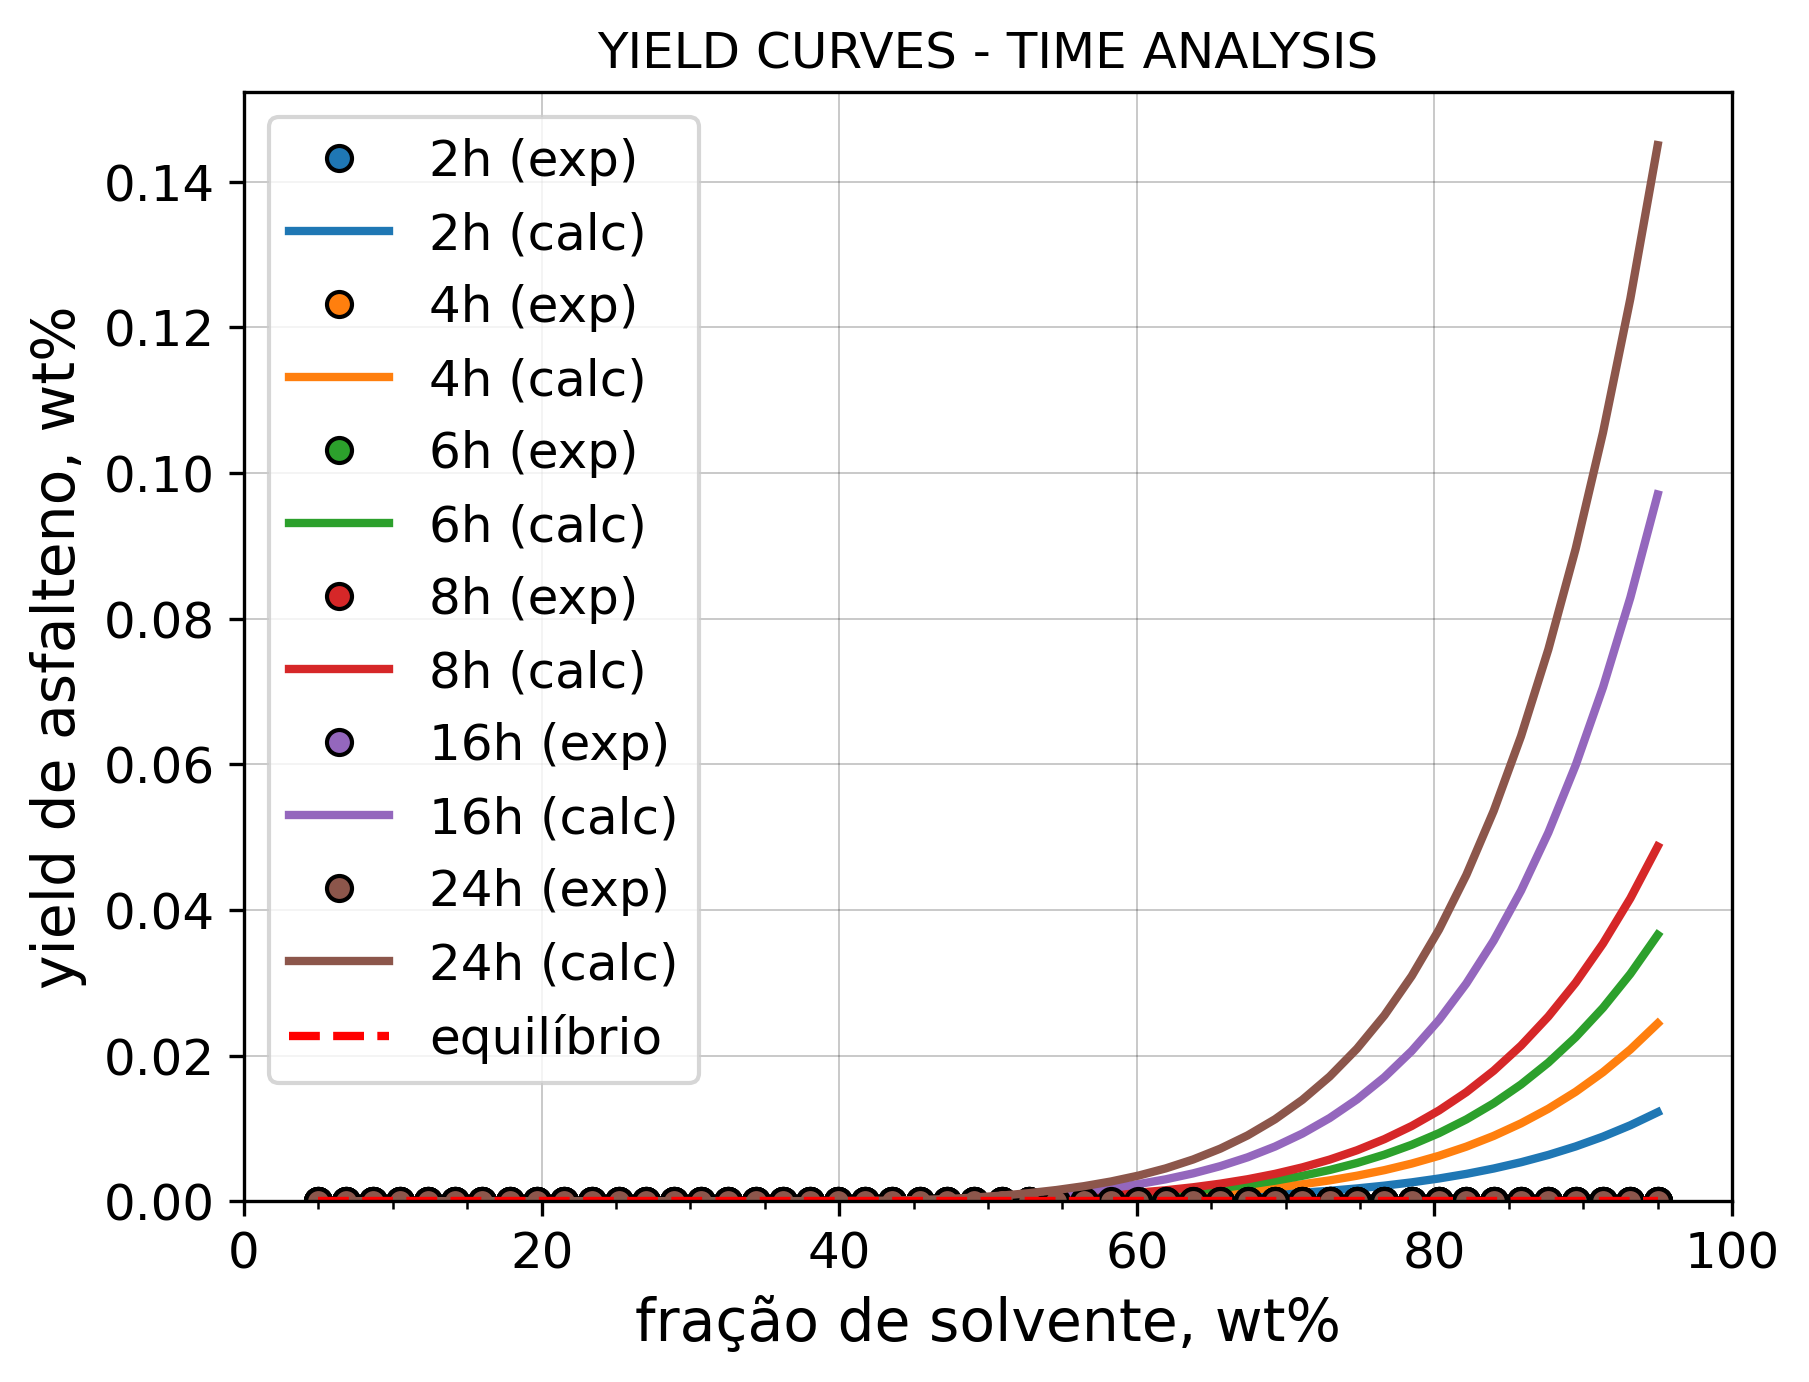
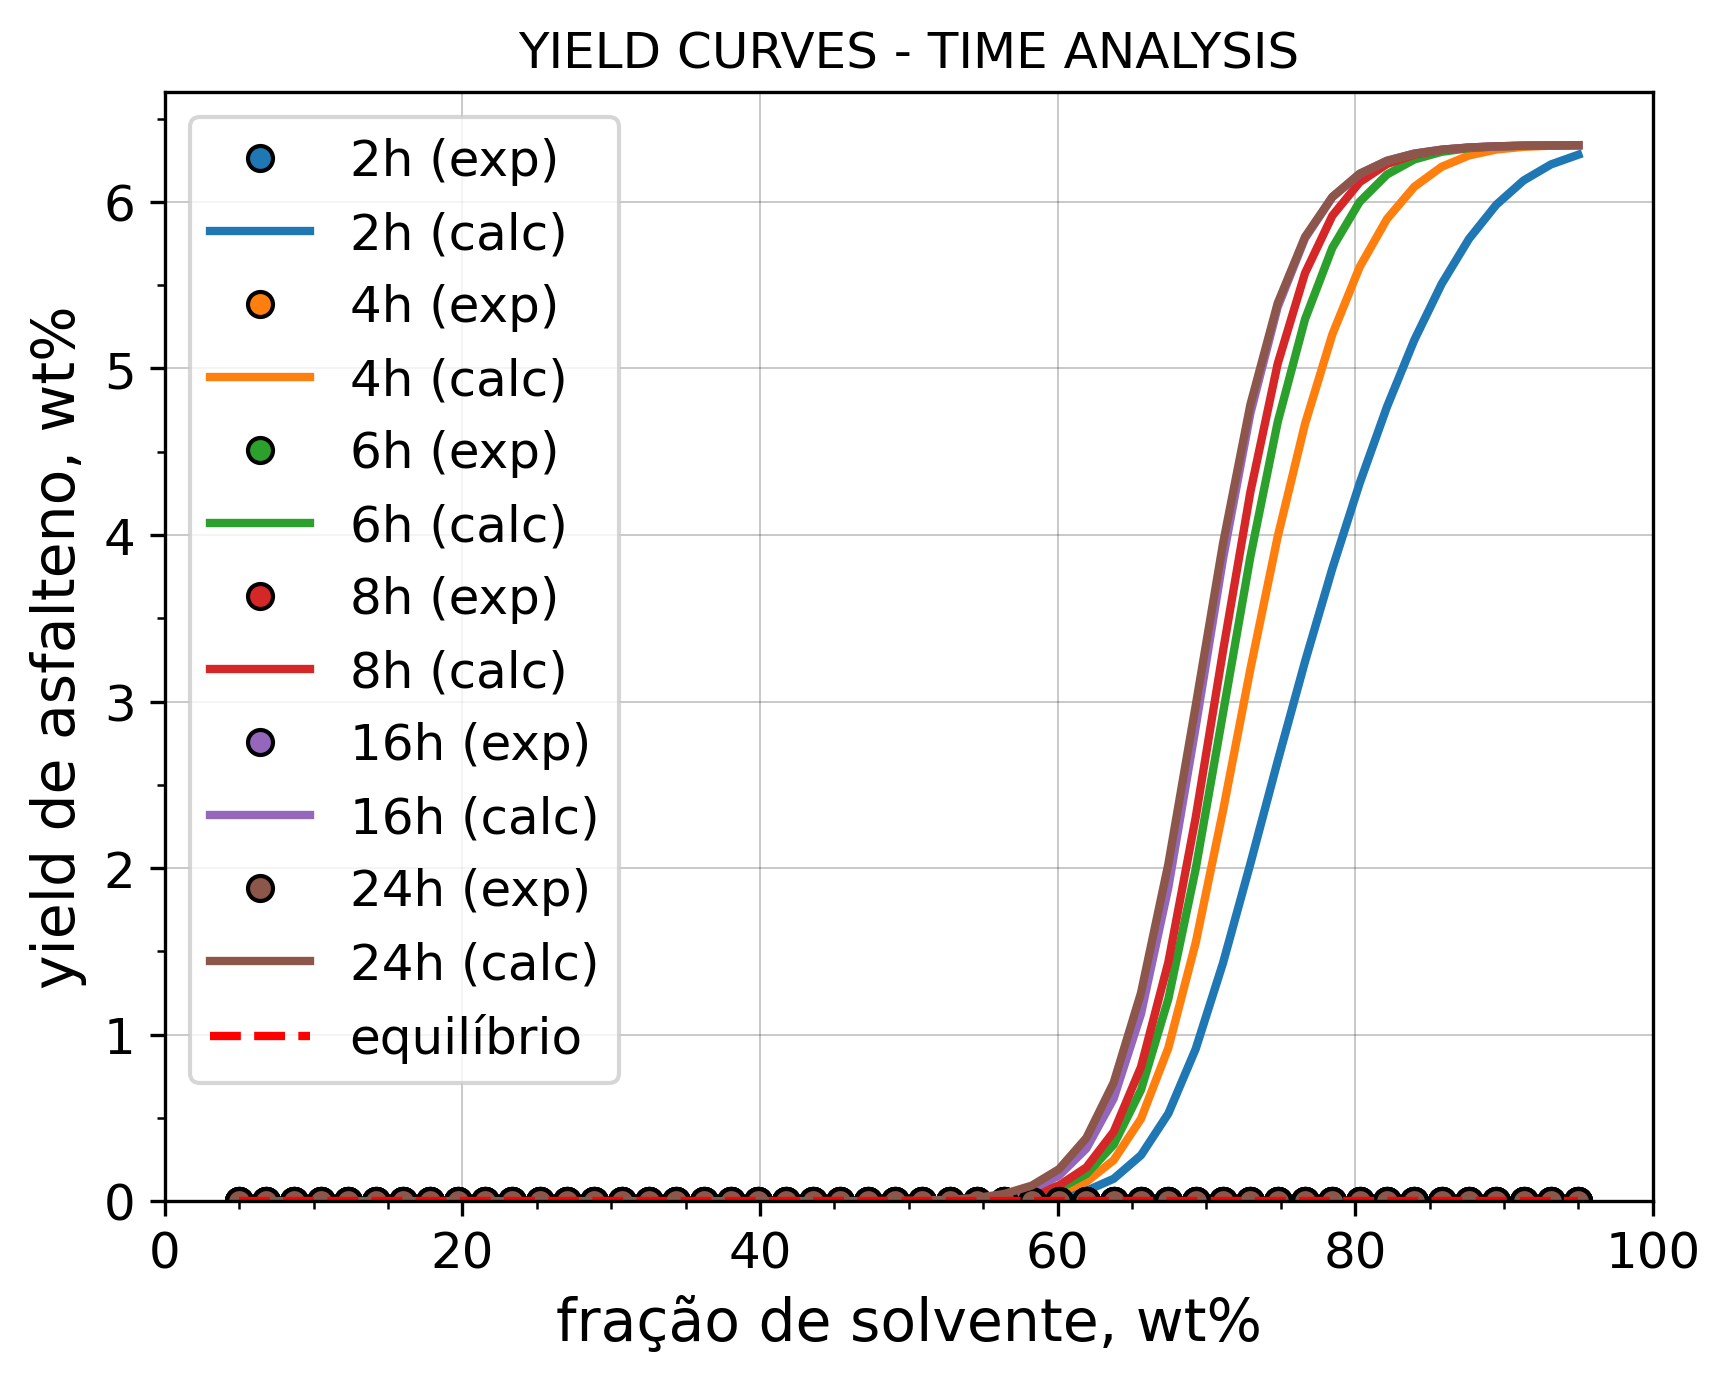
Criação do módulo colormap

diff --git a/módulo_colormap.py b/módulo_colormap.py
@@ -1,0 +1,159 @@
+# ====================================================================================================================== #
+# Módulo: Colormap de Erro para Parâmetros alfa e MW_avg
+
+# Importação das bibliotecas
+import os
+import numpy as np
+import matplotlib.pyplot as plt
+import copy
+import sys
+
+# Importação dos módulos
+from módulo_configurações import Configurações
+from módulo_parâmetros import Parâmetros
+from módulo_propriedades import Propriedades
+from módulo_composições import FasesSistema
+from módulo_ELL import FlashELL, ModeloTermodinâmico
+from módulo_leitura_dados import ler_dados_experimentais, ler_lista_datasets
+
+# ==================================================================================================================== #
+# PARTE 1: LEITURA DE DADOS E CONFIGURAÇÕES
+# ==================================================================================================================== #
+
+# Ler a lista de datasets
+diretorio = os.path.dirname(__file__)
+database = ler_lista_datasets(diretorio)
+
+# Escolha do dataset
+nome_planilha = 'Yanes_P3'  
+if nome_planilha not in database:
+    print(f"Dataset '{nome_planilha}' não encontrado na base de dados.")
+    sys.exit()
+
+# Leitura dos dados experimentais
+diretorio_do_xlsx = os.path.join(diretorio, 'Dados de Entrada', 'database_yield_curves.xlsx')
+SARA, T, precipitante, ws_exp, yields_exp, n_dados_exp = ler_dados_experimentais(diretorio_do_xlsx, nome_planilha)
+
+# Configurações e parâmetros base (valores padrão)
+config = Configurações()
+params = Parâmetros()
+
+# Alterando as configurações para usar a distribuição Gamma
+config.correlações.fracionamento_asfaltenos = 'Distribuição_Gamma'
+
+# Parâmetros regredidos (MW_molecula, x_Asf0, x_Asf1) = valores padrão. (alterável)
+params.equilíbrio.MW_molecula = 670.0
+params.equilíbrio.x_Asf0 = 0.3
+params.equilíbrio.x_Asf1 = 0.3
+
+# ==================================================================================================================== #
+# PARTE 2: CALCULANDO O ERRO
+# ==================================================================================================================== #
+
+def calcular_erro(alpha, MW_avg):
+    # Cria uma cópia dos parâmetros para não alterar o original
+    params_copy = copy.deepcopy(params)
+    params_copy.equilíbrio.alfa = alpha
+    params_copy.equilíbrio.MW_avg = MW_avg
+
+    # Calcula as propriedades termodinâmicas
+    propriedades = Propriedades.calcular(T, precipitante, params_copy.equilíbrio, config)
+
+    # Cria o sistema com as composições globais
+    sistema = FasesSistema.criar(ws_exp, SARA, n_dados_exp, propriedades)
+    modelo_termodinâmico = ModeloTermodinâmico.criar(config.cálculo.modelo_termodinâmico, propriedades)
+
+    # Arrays para armazenar as composições das fases
+    xs_L = np.zeros_like(sistema.fase_leve.xs)
+    xs_H = np.zeros_like(sistema.fase_pesada.xs)
+    betas = np.zeros(n_dados_exp)
+
+    # Calcula o flash para cada ponto experimental
+    for i in range(n_dados_exp):
+        equilíbrio = FlashELL(sistema.fase_global.xs[i], modelo_termodinâmico)
+        betas[i], xs_L[i, :], xs_H[i, :], _ = equilíbrio.calcular_flash()
+
+    sistema.betas = betas
+    sistema.fase_leve.definir_composições('molar', xs_L, propriedades)
+    sistema.fase_pesada.definir_composições('molar', xs_H, propriedades)
+
+    # Calcula os yields e o erro
+    yields_calc = sistema.yields_calc(propriedades.MMs)
+    erro = np.mean(np.abs(yields_exp - yields_calc)) # Pode ser modificado para outro tipo de erro.
+    return erro
+
+# ==================================================================================================================== #
+# PARTE 3: DEFINIÇÃO DA GRADE E CÁLCULO DOS ERROS
+# ==================================================================================================================== #
+
+# Limites dos parâmetros
+alpha_min, alpha_max = 0.1, 20.0
+MW_avg_min, MW_avg_max = 1800.0, 5000.0
+
+# Número de pontos
+n_alpha = 20
+n_MW = 20
+
+alpha_range = np.linspace(alpha_min, alpha_max, n_alpha)
+MW_avg_range = np.linspace(MW_avg_min, MW_avg_max, n_MW)
+
+# Matriz de erros
+errors = np.zeros((n_alpha, n_MW))
+
+print("Iniciando o cálculo de erros...")
+for i, alpha in enumerate(alpha_range):
+    for j, MW_avg in enumerate(MW_avg_range):
+        errors[i, j] = calcular_erro(alpha, MW_avg)
+        print(f"alfa = {alpha:.2f}, MW_avg = {MW_avg:.0f}  ->  erro = {errors[i, j]:.6f}")
+
+# Verifica se todos os erros são iguais
+if np.allclose(errors, errors[0,0]):
+    print("ATENÇÃO: Todos os erros são iguais.")
+
+# ==================================================================================================================== #
+# PARTE 4: PLOTAGEM DO COLORMAP
+# ==================================================================================================================== #
+
+plt.figure(figsize=(10, 8))
+plt.pcolormesh(alpha_range, MW_avg_range, errors.T, 
+               cmap='viridis', 
+               shading='auto')
+
+# Encontra a posição do menor erro na matriz
+i_min, j_min = np.unravel_index(np.argmin(errors), errors.shape)
+
+alpha_opt = alpha_range[i_min]
+MW_opt = MW_avg_range[j_min]
+erro_min = errors[i_min, j_min]
+
+# Adiciona o marcador no gráfico
+plt.scatter(alpha_opt, MW_opt, 
+            color='red', marker='*', s=250, 
+            edgecolor='white', linewidth=1.5,
+            label=f'Mínimo: α={alpha_opt:.2f}, MW={MW_opt:.0f}')
+
+# Adiciona uma legenda para o marcador
+plt.legend(loc='upper right', fontsize=10)
+cbar = plt.colorbar(label='Erro (Desvio Absoluto Médio)', pad=0.02)
+cbar.ax.tick_params(labelsize=12)
+
+plt.xlabel('Parâmetro alfa', fontsize=14)
+plt.ylabel('Massa molar média MW_avg (g/mol)', fontsize=14)
+plt.title(f'Mapa de erro para {nome_planilha}', fontsize=16)
+
+if not np.allclose(errors, errors[0,0]):
+    contour_levels = np.linspace(errors.min(), errors.max(), 10)
+    plt.contour(alpha_range, MW_avg_range, errors.T, levels=contour_levels, colors='white', linewidths=0.5)
+else:
+    print("Erros constantes, contornos não serão plotados.")
+
+plt.tight_layout()
+
+# Salvar a figura na pasta de resultados
+diretorio_saida = os.path.join(diretorio, 'Resultados', 'Mapas_Erro')
+os.makedirs(diretorio_saida, exist_ok=True)
+plt.savefig(os.path.join(diretorio_saida, f'{nome_planilha}_colormap_alpha_MWavg.png'), dpi=300)
+
+plt.show()
+
+print("O colormap foi gerado e salvo.")

diff --git a/módulo_cálculos_cinéticos.py b/módulo_cálculos_cinéticos.py
@@ -4,7 +4,7 @@ import scipy as scp
 from scipy.constants import R  # m3*Pa/mol*K
 from dataclasses import dataclass
 
-@dataclass #onset, yield_max, kc1, kc2, kt1, kt2
+@dataclass
 class parâmetros_precipitação:
 
     onset: float
@@ -56,6 +56,26 @@ class cálculos_físicos:
 def deposição_cumulativa_asfaltenos():
     pass
 
+# ********************************************************************************
+# FUNÇÕES WRAPPER PARA CÁLCULOS CINÉTICOS *************************************
+
+# Funções wrapper para compatibilidade com importações
+def calcular_yields_tempo_infinito(xs_precipitante, modelo):
+    return modelo.calcular_yields_tempo_infinito(xs_precipitante)
+
+def calcular_yields_temporais(tempos, xs_precipitante, yields_tempo_infinito, modelo):
+    return modelo.calcular_yields_temporais(tempos, xs_precipitante, yields_tempo_infinito)
+
+def obter_ponto_de_onset(xs_precipitante, yield_curve, tol=0.001, modelo=None):
+    if modelo:
+        return modelo.obter_ponto_de_onset(xs_precipitante, yield_curve, tol)
+    # Implementação padrão se não houver modelo
+    onset = 0
+    for i_onset in range(len(yield_curve)):
+        if yield_curve[i_onset] > tol:
+            onset = xs_precipitante[i_onset] if i_onset == 0 else xs_precipitante[i_onset - 1]
+            break
+    return onset
 # ******************************************************************************************************************** #
 #  ATENÇÃO: O CÓDIGO A SEGUIR SERÁ EXECUTADO APENAS QUANDO ESTE MÓDULO FOR RODADO COMO SCRIPT PRINCIPAL.               #
 #           O CÓDIGO A SEGUIR SERVE PARA CONFERIR SE AS FUNÇÕES DESTE MÓDULO FUNCIONAM CORRETAMENTE.                   #

diff --git a/MAIN.py b/MAIN.py
@@ -18,7 +18,7 @@ from módulo_ELL import FlashELL, ModeloTermodinâmico
 # from módulo_equilíbrio_multifásico import calcular_equilíbrio_multifásico
 from módulo_cálculos_cinéticos import calcular_yields_tempo_infinito, calcular_yields_temporais, obter_ponto_de_onset
 from módulo_resultados import exibir_resultados_equilíbrio, exibir_resultados_cinética, salvar_resultados_excel
-
+from módulo_colormap import plotar_colormap_alfa_MWavg
 
 # ==================================================================================================================== #
 def executar_modelagem_principal(nome_planilha, diretório):
@@ -98,6 +98,7 @@ def executar_modelagem_principal(nome_planilha, diretório):
         # 3.3 - Predição do Modelo Cinético
         yields_eq_calc = calcular_yields_tempo_infinito(ws_exp[:, 0], params.cinética)
         yields_temp_calc, taus = calcular_yields_temporais(tempos, ws_exp[:, 0], yields_eq_calc, params.cinética)
+        alfa = params.equilíbrio.alfa
 
         # 3.4 - Exibição dos Resultados de Yield Curves Cinéticas
         exibir_resultados_cinética(config, nome_planilha, tempos, ws_exp[:, 0], taus, params.cinética,

diff --git a/módulo_distribuição_massa_molar.py b/módulo_distribuição_massa_molar.py
@@ -27,6 +27,9 @@ def calcular_por_Distribuição_Gamma(alfa, MWavg, n_agregados, MWmin, MWmax, ti
            wsagregados (array)  : frações mássicas dos agregados de asfaltenos
            xsagregados (array)  : frações molares dos agregados de asfaltenos
     """
+    #prints debug ===================
+    #print(f"[DIST] alfa={alfa}, MW_avg={MWavg}, n={n_agregados}, min={MW_min}, max={MW_max}, tipo={tipo_calculo}")
+    # ===================================
 
     # Função FDP_Gamma
     def f(MWi):
@@ -58,6 +61,11 @@ def calcular_por_Distribuição_Gamma(alfa, MWavg, n_agregados, MWmin, MWmax, ti
     wsagregados = xsagregados * MMsagregados / ((xsagregados * MMsagregados).sum())
     xsagregados, wsagregados = normalizar_composição(xsagregados), normalizar_composição(wsagregados)
     wsagregados_cumulativa = np.cumsum(wsagregados)
+
+    #prints debug =======================
+    #print(f"[DIST] MM (primeiros 5) = {MM[:5]}")
+    #print(f"[DIST] x  (primeiros 5) = {x[:5]}")
+    #==========================================
 
     return MMsagregados, xsagregados, wsagregados, wsagregados_cumulativa
 

diff --git a/módulo_configurações.py b/módulo_configurações.py
@@ -58,7 +58,7 @@ class CorrelaçõesConfigurações(BaseConfigurações):
 @dataclass
 class CálculosConfigurações(BaseConfigurações):
     # Relacionados à regressão dos parâmetros
-    tipo_cálculo_equilíbrio: str = field(default='regressão',
+    tipo_cálculo_equilíbrio: str = field(default='predição',
                                          metadata={'opções': ['regressão', 'predição']})
     tipo_cálculo_cinética: str = field(default='não',
                                        metadata={'opções': ['não', 'regressão', 'predição']})
